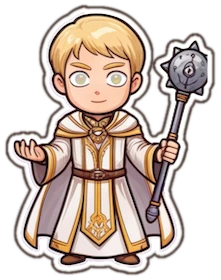
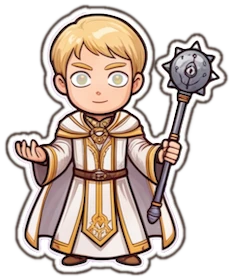
Triangle: Cleric visuals

diff --git a/public/triangle/main.js b/public/triangle/main.js
@@ -40271,6 +40271,29 @@ var ART = {
       g.restore();
     }
   }),
+  // Smite (TRIP-33): a ring of light lying on the ground, with beams fanning up out of it. Not dust:
+  // it must not read as the Knight's shockwave. Drawn square and stretched wide like the wave
+  smite: drawn((g) => {
+    g.save();
+    g.globalAlpha = 0.85;
+    g.lineWidth = 2.5;
+    g.strokeStyle = "#e0a93a";
+    for (const i of [-2, -1, 0, 1, 2]) {
+      const bx = 48 + i * 15, tx = 48 + i * 21, ty = 4 + Math.abs(i) * 12;
+      shape(g, [[bx - 7, 74], [tx, ty], [bx + 7, 74]], i % 2 ? "#fff8d6" : "#ffe88f");
+    }
+    g.restore();
+    const ring = /* @__PURE__ */ __name((w2, c) => {
+      g.lineWidth = w2;
+      g.strokeStyle = c;
+      g.beginPath();
+      g.ellipse(48, 76, 40, 11, 0, 0, Math.PI * 2);
+      g.stroke();
+    }, "ring");
+    ring(13, "#3b2b25");
+    ring(8, "#f2c14e");
+    ring(3, "#fffbe6");
+  }),
   // the Trickster's razor cards (TRIP-55): a playing card standing upright, one per suit, fanned
   // along the slash. Pips only, no letters: a letter is mush at this size
   ...Object.fromEntries(["spade", "heart", "club", "diamond"].map((suit) => [`card_${suit}`, drawn((g) => paintCard(g, suit))])),
@@ -40386,6 +40409,10 @@ function strikeArt(s) {
   return [name3 === "Shockwave" ? "wave" : "sweep", 1, 1];
 }
 __name(strikeArt, "strikeArt");
+var smiting = /* @__PURE__ */ __name((p2) => p2.mods.rules.toArray().some((r) => r.constructor.name === "Smite") && !p2.loadout.toArray().some((s) => s.effect.constructor.name === "Shockwave"), "smiting");
+var halos = /* @__PURE__ */ new Map();
+var HALO_LIVE = 0.15;
+var HALO_FADE = 0.3;
 var keys = /* @__PURE__ */ new Set();
 var prevJump = false;
 var prevDash = false;
@@ -41340,6 +41367,7 @@ function frame(now) {
   const back = DT * (1 - part);
   const flying = Object.fromEntries(Object.keys(ART).map((k2) => [k2, []]));
   for (const s of world.projectiles.toArray()) (s.hex ? flying.hex : flying.stone).push({ x: s.x - s.vx * back, y: s.y - s.vy * back, w: shot_size * (s.hex ? 1.9 : 1.5), h: shot_size * (s.hex ? 1.9 : 1.5), turn: now / 90 });
+  const smites = smiting(p2);
   for (const s of world.strikes.toArray()) {
     if (s.wait > 0) continue;
     const r = strike_box(s, px, py), [art, kw, kh] = strikeArt(s);
@@ -41361,12 +41389,29 @@ function frame(now) {
       flying.puddle.push({ x, y: r.y + 0.12, w: r.w * kw * dry * (1 + wob), h: 0.5 * (0.6 + 0.4 * dry) * (1 - wob), z: 0.6 });
       continue;
     }
+    if (art === "wave" && smites) {
+      halos.set(`${s.x.toFixed(2)},${s.y.toFixed(2)}`, { x, ground: r.y, w: r.w, age: HALO_LIVE - s.ttl, seen: now });
+      continue;
+    }
     if (art === "wave") {
       const k2 = calm ? 1 : 0.4 + 0.6 * Math.min(1, Math.max(0, 1 - s.ttl / 0.15));
       flying.wave.push({ x, y: r.y + 0.7, w: r.w * k2, h: 1.4 });
       continue;
     }
     flying[art].push(moving ? { x, y: y2, w: long * kw, h: short * kh, turn: Math.atan2(s.vy, s.vx) } : { x, y: y2, w: r.w * kw, h: r.h * kh, flip: art === "sweep" && (Math.abs(x - px) > 0.05 ? x < px : p2.facing < 0) });
+  }
+  for (const [key2, h] of halos) {
+    const age = h.age + (now - h.seen) / 1e3;
+    if (age > HALO_LIVE + HALO_FADE) {
+      halos.delete(key2);
+      continue;
+    }
+    const grow = calm ? 1 : 0.4 + 0.6 * Math.min(1, age / HALO_LIVE), fade = 1 - Math.max(0, age - HALO_LIVE) / HALO_FADE, w2 = h.w * grow;
+    flying.smite.push({ x: h.x, y: h.ground + 0.85, w: w2, h: 1.9, alpha: fade, z: 0.6 });
+    for (let i = 0; i < 5; i++) {
+      const k2 = 0.3 + 0.12 * (i % 2);
+      flying.glint.push({ x: h.x + (i - 2) * w2 * 0.17, y: h.ground + 0.5 + i % 2 * 0.45 + (calm ? 0 : age * 2.2), w: k2, h: k2, turn: calm ? 0 : age * 3 + i, alpha: fade, z: 1.5 });
+    }
   }
   for (const m of marks) flying[m.art].push(m);
   for (const c of cards) flying[c.art].push(c);
